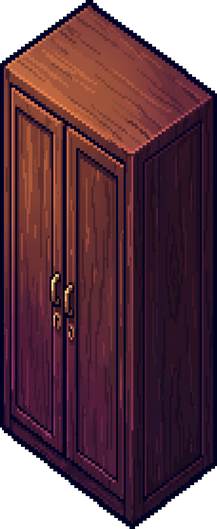
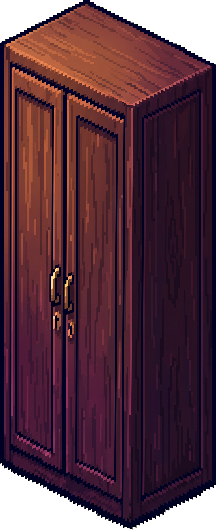
The Last Dance: mureta transparente atrás do personagem, armário encaixado, imagens mais leves
- Paredes compridas viram pedaços de 0,5 m só para desenhar: a mureta não fica mais por cima do armário.
- Parede na frente do personagem fica transparente (a mureta inteira, sem listras nas emendas).
- Armário reencaixado face a face (estava esticado 30% fora de proporção).
- Imagens planas da padaria com no máximo 512 px (3,8 MB -> 1,9 MB).

diff --git a/frontend/public/thelastdance/js/apartamento.js b/frontend/public/thelastdance/js/apartamento.js
@@ -588,7 +588,7 @@
 
   // Textura reta de parede aplicada numa face, inclinada no ângulo do mapa e repetida a cada largura_m.
   // eixo "x": face no plano y = fixo, de x = a até b; eixo "y": face no plano x = fixo, de y = a até b.
-  function texturaFace(ctx, eixo, fixo, a, b, h, escurecer) {
+  function texturaFace(ctx, eixo, fixo, a, b, h, escurecer, origem) {
     const info = props && props.props[TEXTURA_PAREDE], tex = imgProps[TEXTURA_PAREDE];
     if (!tex || !info) return;
     const P3 = (u, z) => (eixo === "x" ? T(u, fixo, z) : T(fixo, u, z));
@@ -597,7 +597,8 @@
     const contorno = [P3(a, 0), P3(b, 0), P3(b, h), P3(a, h)];
     ctx.beginPath(); contorno.forEach((q, i) => (i ? ctx.lineTo(q[0], q[1]) : ctx.moveTo(q[0], q[1]))); ctx.closePath();
     ctx.clip();
-    for (let u = a; u < b - 1e-6; u += L) {
+    const u0 = origem === undefined ? a : origem + Math.floor((a - origem) / L) * L; // pedaços seguem o desenho
+    for (let u = u0; u < b - 1e-6; u += L) {
       const o = P3(u, H), fimU = P3(u + L, H), base = P3(u, 0);
       ctx.save();
       ctx.transform((fimU[0] - o[0]) / tex.width, (fimU[1] - o[1]) / tex.width,
@@ -612,15 +613,46 @@
   function caixa(ctx, c) {
     if (arte(ctx, c)) return;
     const [cTopo, cEsq, cDir] = CORES[c.tipo] || CORES.movel;
-    const z = c.z1;
+    const z = c.z1, linha = c.pedaco ? null : "rgba(0,0,0,0.45)"; // pedaço de parede: sem linha na emenda
+    // pedaço do meio de uma parede: a "tampa" que encosta no pedaço seguinte fica escondida — não desenha
+    // (com a parede transparente, ela apareceria como uma listra)
+    const faceEsq = !c.grupo || c.y1 >= c.grupo.y1 - 1e-9, faceDir = !c.grupo || c.x1 >= c.grupo.x1 - 1e-9;
     // faces visíveis: frente-esquerda (y = y1), frente-direita (x = x1), topo
-    poli(ctx, [T(c.x0, c.y1, 0), T(c.x1, c.y1, 0), T(c.x1, c.y1, z), T(c.x0, c.y1, z)], cEsq, "rgba(0,0,0,0.45)");
-    poli(ctx, [T(c.x1, c.y0, 0), T(c.x1, c.y1, 0), T(c.x1, c.y1, z), T(c.x1, c.y0, z)], cDir, "rgba(0,0,0,0.45)");
-    poli(ctx, [T(c.x0, c.y0, z), T(c.x1, c.y0, z), T(c.x1, c.y1, z), T(c.x0, c.y1, z)], cTopo, "rgba(0,0,0,0.45)");
+    if (faceEsq) poli(ctx, [T(c.x0, c.y1, 0), T(c.x1, c.y1, 0), T(c.x1, c.y1, z), T(c.x0, c.y1, z)], cEsq, linha);
+    if (faceDir) poli(ctx, [T(c.x1, c.y0, 0), T(c.x1, c.y1, 0), T(c.x1, c.y1, z), T(c.x1, c.y0, z)], cDir, linha);
+    poli(ctx, [T(c.x0, c.y0, z), T(c.x1, c.y0, z), T(c.x1, c.y1, z), T(c.x0, c.y1, z)], cTopo, linha);
     if (c.tipo === "parede") { // as duas faces que dão para a câmera recebem a textura (a esquerda mais escura)
-      texturaFace(ctx, "x", c.y1, c.x0, c.x1, z, 0.22);
-      texturaFace(ctx, "y", c.x1, c.y0, c.y1, z, 0);
+      if (faceEsq) texturaFace(ctx, "x", c.y1, c.x0, c.x1, z, 0.22, c.origemX);
+      if (faceDir) texturaFace(ctx, "y", c.x1, c.y0, c.y1, z, 0, c.origemY);
     }
+  }
+
+  // Paredes compridas (mureta entre os cômodos, paredes da frente) viram pedaços de até 0,5 m SÓ para desenhar:
+  // uma caixa comprida não tem uma ordem certa com o personagem e os móveis em volta (às vezes ficava por
+  // cima do armário). A colisão continua usando a parede inteira.
+  const PEDACO = 0.5;
+  const ITENS_FIXOS = [];
+  for (const c of P.caixas) {
+    if (c.fundo || c.oculto) continue;
+    const longoX = c.x1 - c.x0, longoY = c.y1 - c.y0;
+    if (c.tipo !== "parede" || Math.max(longoX, longoY) <= PEDACO * 1.5) { ITENS_FIXOS.push(Object.assign({ desenho: "caixa" }, c)); continue; }
+    const eixoX = longoX >= longoY, ini = eixoX ? c.x0 : c.y0, fim = eixoX ? c.x1 : c.y1;
+    const n = Math.ceil((fim - ini) / PEDACO);
+    for (let k = 0; k < n; k++) {
+      const a = ini + (fim - ini) * k / n, b = ini + (fim - ini) * (k + 1) / n;
+      ITENS_FIXOS.push(Object.assign({ desenho: "caixa", pedaco: true, grupo: c, origemX: c.x0, origemY: c.y0 }, c,
+        eixoX ? { x0: a, x1: b } : { y0: a, y1: b }));
+    }
+  }
+
+  // Parede na frente do personagem fica transparente (dá para vê-lo atrás da mureta).
+  function cobreJogador(c) {
+    const pts = [];
+    for (const x of [c.x0, c.x1]) for (const y of [c.y0, c.y1]) for (const z of [0, c.z1]) pts.push(T(x, y, z));
+    const [jx, jy] = T(jog.x, jog.y, 0);
+    const minX = Math.min(...pts.map((q) => q[0])), maxX = Math.max(...pts.map((q) => q[0]));
+    const minY = Math.min(...pts.map((q) => q[1])), maxY = Math.max(...pts.map((q) => q[1]));
+    return jx + 40 > minX && jx - 40 < maxX && jy > minY && jy - ALTURA_PERSONAGEM < maxY;
   }
 
   function desenharJogador(ctx) {
@@ -782,13 +814,28 @@
     for (const w of P.naParede) quadParede(ctx, w);
 
     // móveis, paredes cortadas e o personagem, na ordem de profundidade
-    const itens = P.caixas.filter((k) => !k.fundo && !k.oculto).map((c) => Object.assign({ desenho: "caixa" }, c));
+    const itens = ITENS_FIXOS.slice();
     itens.push({ desenho: "jogador", x0: jog.x - 0.05, y0: jog.y - 0.05, x1: jog.x + 0.05, y1: jog.y + 0.05 });
     for (const n of NPCS) if (n.postura !== "sentado") itens.push({ desenho: "npc", npc: n, x0: n.x - 0.05, y0: n.y - 0.05, x1: n.x + 0.05, y1: n.y + 0.05 });
-    for (const it of ISO.ordenar(itens)) {
+    const ordem = ISO.ordenar(itens);
+    // paredes (inteiras, não só o pedaço) desenhadas depois do personagem e na frente dele ficam transparentes
+    const iJog = ordem.findIndex((it) => it.desenho === "jogador"), vazadas = new Set();
+    if (!jog.oculto) {
+      for (let k = iJog + 1; k < ordem.length; k++) {
+        const it = ordem[k];
+        if (it.tipo === "parede" && it.z1 > 0.6 && cobreJogador(it)) vazadas.add(it.grupo || it);
+      }
+    }
+    for (const it of ordem) {
       if (it.desenho === "jogador") desenharJogador(ctx);
       else if (it.desenho === "npc") desenharNpc(ctx, it.npc);
-      else { caixa(ctx, it); if (it.ocupante) desenharNpc(ctx, it.ocupante); }
+      else {
+        const transparente = vazadas.has(it.grupo || it);
+        if (transparente) { ctx.save(); ctx.globalAlpha = 0.4; }
+        caixa(ctx, it);
+        if (transparente) ctx.restore();
+        if (it.ocupante) desenharNpc(ctx, it.ocupante);
+      }
     }
     desenharSinaisNpc(ctx, agora);
 
